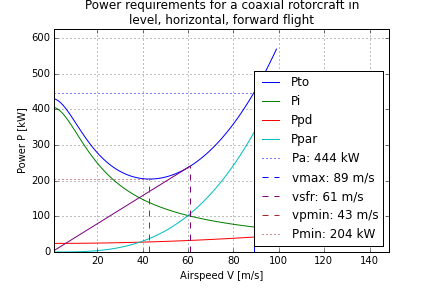
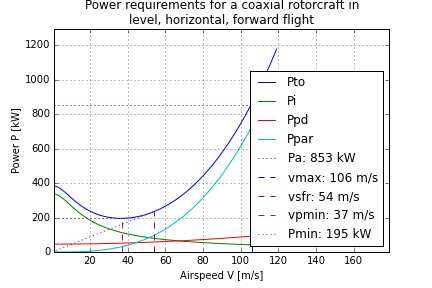
Verifcation, Conversion fix, and Regulations

diff --git a/heli.py b/heli.py
@@ -9,6 +9,7 @@ import numpy as np
 import matplotlib.pyplot as plt
 from mpl_toolkits.mplot3d import Axes3D
 import engine
+import copy
 
 class SRheli(object):
     
@@ -137,6 +138,9 @@ class SRheli(object):
     def get_vihov(self, R):
         return np.sqrt(self.W/(2*self.rho*np.pi*R**2))
         
+    def setname(self, name):
+        self.name = name
+        
     def setR(self, Rs):
         self.R = Rs
 
@@ -164,6 +168,11 @@ class SRheli(object):
     def setEngine(self, engine):
         self.engine_choice = engine
         self.P_a = engine.determine_power_at_altitude(self.h)
+        self.P_e = engine.P_sl
+        
+    def setTwinEngine(self, engine):
+        self.engine_choice = engine
+        self.P_a = 2*engine.determine_power_at_altitude(self.h)
         self.P_e = engine.P_sl
 
     def plot_val(self, x, y, title=None, xlabel=None, ylabel=None, get_min=False, xlim=None, ylim=None):
@@ -239,7 +248,7 @@ class SRheli(object):
         
         plt.axhline(self.P_a, 0, v_C/v.max()/xscale, label='Pa: %i kW' % int(self.P_a), color='blue', linestyle='dotted')
         plt.axvline(v_C, 0, self.P_a/Pto.max()/yscale, label='vmax: %i m/s' % int(v_C), color='blue', linestyle='dashed')
-        plt.plot((0,v_B), (0, Psfr), color='purple')
+        plt.plot((0,v_B), (0, Psfr), color='purple', linestyle='dotted')
         plt.axvline(v_B, 0, Psfr/Pto.max()/yscale, label='vsfr: %i m/s' % int(v_B), color='purple', linestyle='dashed')
         plt.axvline(v_A, 0, Pmin/Pto.max()/yscale, label='vpmin: %i m/s' % int(v_A), color='brown', linestyle='dashed')
         plt.axhline(Pmin, 0, v_A/v.max()/xscale, label='Pmin: %i kW' % int(Pmin), color='brown', linestyle='dotted')
@@ -400,8 +409,25 @@ class SRheli(object):
         Engine_alternatives : list; engine.Engine
             All engines that meet the hover power requirements
         '''
-        engine_best, engine_alternatives = engine.engineoptions.select_engine(P_to[0], self.h)
+        far_regulation_TO = copy.copy(self)
+        far_regulation_TO.setname('far-regulation-1, TO')
+        far_regulation_TO.seth(6400)
+        farTO_v, farTO_power = far_regulation_TO.determineP_to(np.linspace(1, 100))#, P_to0=P_to[0])        
+        
+        engine_best, engine_alternatives = engine.engineoptions.select_engine(farTO_power[0][0], far_regulation_TO.h, farTO_v[1])
         self.setEngine(engine_best)
+
+        far_regulation_vcl = copy.copy(far_regulation_TO)
+        far_regulation_vcl.setname('far-regulation-2, vcl')
+        far_regulation_vcl.seth(6705)
+        farvcl_v, farvcl_power = far_regulation_vcl.determineP_to(np.linspace(1, 100), P_to0=farTO_power[0])
+
+        if farvcl_v[1][0] < 0.76:
+            print('better engine needed')
+            engine_best, engine_alternatives = engine.engineoptions.select_engine(farvcl_power[0][0], far_regulation_vcl.h, P_to0=farvcl_power[0])
+        
+        self.setTwinEngine(engine_best)
+        print(farvcl_v[1][0])        
         return engine_best, engine_alternatives
             
     def idealPhovafoR(self, Rs=np.linspace(1,11)):
@@ -552,9 +578,9 @@ class Coaxheli(SRheli):
         '''
         self.Nr = 2 
         self.Nb = self.Nb//2
-        self.R = self.R/np.sqrt(2)
-        self.c = self.c/np.sqrt(2)
-        self.Omega = self.Omega*np.sqrt(2)
+        self.R = self.R*np.sqrt(2)
+        self.c = self.c*np.sqrt(2)
+        self.Omega = self.Omega/np.sqrt(2)
     
     def reconvert(self):
         '''

diff --git a/ESSRA_data.py b/ESSRA_data.py
@@ -8,10 +8,11 @@ Created on Wed Dec 12 14:37:18 2018
 import numpy as np
 import heli
 
-heliinputs = 'HAMRAC', 1, 6, 2657*9.81, 8950, 8.49, 0.457, 3, 650, 0.95, 21.21, 2, 0.012, 1.15
-airspeed = np.arange(1, 100, 1, dtype=float)
+MTOW = 2657
+heliinputs = 'HAMRAC', 1, 6, MTOW*9.81, 6700, 4.46, 0.304, 3, 650, 0.95, 41, 2, 0.012, 1.15
+airspeed = np.arange(1, 120, 1, dtype=float)
 
-#far = heli.Coaxheli('FAR-regulation-check', 1, 6, 2657*9.81, 6400, 0.457, 3, 650, 0.95, 21.21, 2, 0.012, 1.15, convert=True)
+far = heli.Coaxheli('FAR-regulation-check', 1, 6, MTOW*9.81, 6400, 0.457, 3, 650, 0.95, 21.21, 2, 0.012, 1.15, convert=True)
 #SR_HAMRAC = heli.SRheli(*heliinputs)
 #marilena = heli.SRheli("Marilena's Example", 1, 4, 90e3, 0, 9.5, 0.457, 3, 2000, 0.95, 21, 3, 0.01, 1.15)
 
@@ -26,7 +27,7 @@ airspeed = np.arange(1, 100, 1, dtype=float)
 
 # Coaxial Rotor Sample Power Curve
 Coax_HAMRAC = heli.Coaxheli(*heliinputs, zR=0.19, convert=True)
-clvl_v, clvl_p = Coax_HAMRAC.powerCurve(airspeed, P_to0=None, figtitle='Power requirements for a coaxial rotorcraft in \nlevel, horizontal, forward flight', fname='PowerCurveCoaxLevel.png')
+clvl_v, clvl_p = Coax_HAMRAC.powerCurve(airspeed, P_to0=None, figtitle='Power requirements for a coaxial rotorcraft in \nlevel, horizontal, forward flight', fname='PowerCurveCoaxLevel.png', select_engine=True)
 ccl_v, ccl_p = Coax_HAMRAC.powerCurve(airspeed, clvl_p, 'Power requirements for a coaxial rotorcraft in \nnon-level, climbing flight', fname='PowerCurveCoaxClimb.png', select_engine=False)
 
 # check far regulations with dummy heli

diff --git a/engine.py b/engine.py
@@ -123,7 +123,7 @@ class EngineSpider(object):
         ''' Manually add an engine to the engines property '''
         self.engines.append(engine)
         
-    def select_engine(self, P_hov, h):
+    def select_engine(self, P_hov, h, v_cl0):
         '''
         Choose the "best" engine. "Best" (currently) is defined as the engine with
         the smallest available power that meets power requirements in hover at altitude
@@ -133,7 +133,9 @@ class EngineSpider(object):
         P_hov : float
             The hover power, in W
         h : float
-            The altitude of the engine 
+            The altitude of the engine for regulation 1 (TO)
+        v_cl0 : float
+            The climb velocity at hover          
             
         Returns
         -------
@@ -150,6 +152,7 @@ class EngineSpider(object):
             # smallest difference, (assume) all possibilities meet hover requirements
             if p.P_sl - P_hov < best.P_sl - P_hov:
                 best = p
+            
         return best, possibilities
     
     def estimate_mass(self, engine):
